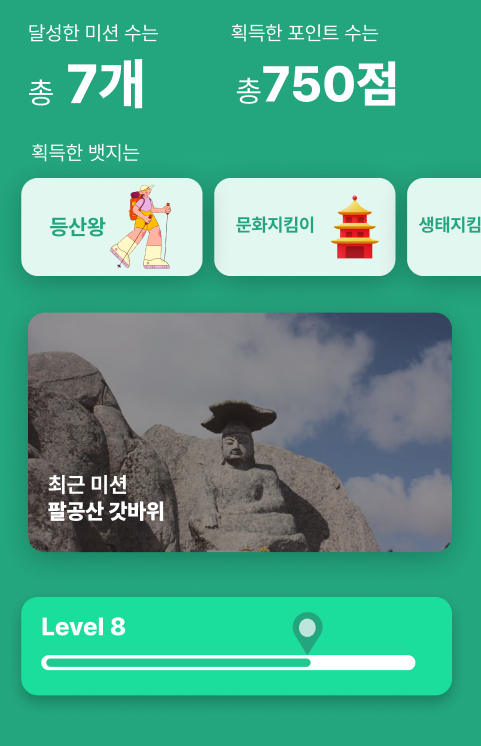
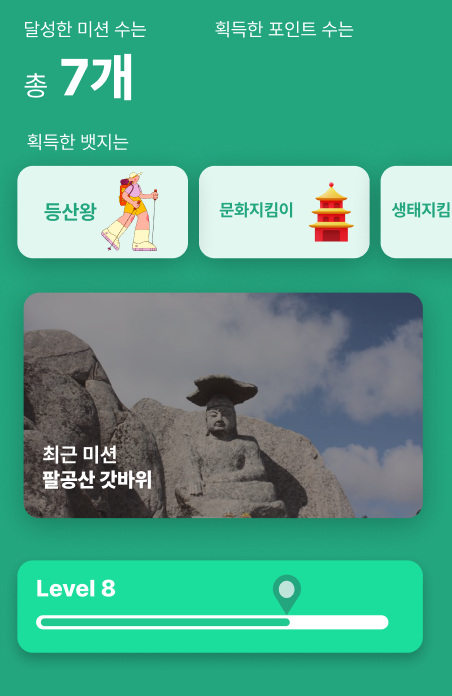
Feat: home screen 포인트

diff --git a/App.js b/App.js
@@ -8,70 +8,76 @@ import Main from "./Main";
 import LoadingScreen from "./screens/LoadingScreen";
 import MissionSuccessScreen from "./screens/MissionSuccessScreen";
 import MissionFailScreen from "./screens/MissionFailScreen";
-import { useState } from "react";
+import { useState, createContext } from "react";
+
+export const MyContext = createContext();
 
 const Stack = createNativeStackNavigator();
 
 export default function App() {
   const [wallet, setWallet] = useState(750);
+  const [imageUri, setImageUri] = useState("");
+
   return (
     <SafeAreaProvider>
       <StatusBar style="auto" />
-      <NavigationContainer>
-        <Stack.Navigator initialRouteName="Main">
-          <Stack.Screen
-            name="Login"
-            component={LoginScreen}
-            options={{
-              header: () => {
-                return null;
-              },
-            }}
-          />
-          <Stack.Screen
-            name="Main"
-            options={{
-              header: () => {
-                return null;
-              },
-            }}
-          >
-            {(props) => (
-              <Main {...props} wallet={wallet} setWallet={setWallet} />
-            )}
-          </Stack.Screen>
-          <Stack.Screen
-            name="Loading"
-            component={LoadingScreen}
-            options={{
-              header: () => {
-                return null;
-              },
-            }}
-          />
-          <Stack.Screen
-            name="MissionSuccess"
-            options={{
-              header: () => {
-                return null;
-              },
-            }}
-          >
-            {(props) => (
-              <MissionSuccessScreen {...props} setWallet={setWallet} />
-            )}
-          </Stack.Screen>
-          <Stack.Screen
-            name="MissionFail"
-            component={MissionFailScreen}
-            options={{
-              header: () => {
-                return null;
-              },
-            }}
-          />
-        </Stack.Navigator>
-      </NavigationContainer>
+      <MyContext.Provider value={{ wallet, setWallet, imageUri, setImageUri }}>
+        <NavigationContainer>
+          <Stack.Navigator initialRouteName="Main">
+            <Stack.Screen
+              name="Login"
+              component={LoginScreen}
+              options={{
+                header: () => {
+                  return null;
+                },
+              }}
+            />
+            <Stack.Screen
+              name="Main"
+              options={{
+                header: () => {
+                  return null;
+                },
+              }}
+            >
+              {(props) => (
+                <Main {...props} wallet={wallet} setWallet={setWallet} />
+              )}
+            </Stack.Screen>
+            <Stack.Screen
+              name="Loading"
+              component={LoadingScreen}
+              options={{
+                header: () => {
+                  return null;
+                },
+              }}
+            />
+            <Stack.Screen
+              name="MissionSuccess"
+              options={{
+                header: () => {
+                  return null;
+                },
+              }}
+            >
+              {(props) => (
+                <MissionSuccessScreen {...props} setWallet={setWallet} />
+              )}
+            </Stack.Screen>
+            <Stack.Screen
+              name="MissionFail"
+              component={MissionFailScreen}
+              options={{
+                header: () => {
+                  return null;
+                },
+              }}
+            />
+          </Stack.Navigator>
+        </NavigationContainer>
+      </MyContext.Provider>
       <Toast />
     </SafeAreaProvider>
   );

diff --git a/components/ImagePicker.jsx b/components/ImagePicker.jsx
@@ -7,10 +7,12 @@ import {
   Pressable,
   TouchableOpacity,
 } from "react-native";
-import { useState } from "react";
+import { useContext, useState } from "react";
+import { MyContext } from "../App";
 
 export default function ImagePicker({ onPress, text }) {
-  const [image, setImage] = useState("");
+  const { imageUri, setImageUri } = useContext(MyContext);
+
   async function selectImageHandler() {
     const result = await launchImageLibraryAsync({
       aspect: [16, 9],
@@ -18,7 +20,7 @@ export default function ImagePicker({ onPress, text }) {
     });
     console.log(result);
     if (!result.canceled) {
-      setImage(result.assets[0].uri);
+      setImageUri(result.assets[0].uri);
     }
   }
 
@@ -29,14 +31,14 @@ export default function ImagePicker({ onPress, text }) {
     });
     console.log(result);
     if (!result.canceled) {
-      setImage(result.assets[0].uri);
+      setImageUri(result.assets[0].uri);
     }
   }
 
   return (
     <>
       <View style={styles.image}>
-        {image ? (
+        {imageUri ? (
           <View
             style={{
               justifyContent: "center",
@@ -45,7 +47,7 @@ export default function ImagePicker({ onPress, text }) {
             }}
           >
             <Image
-              source={{ uri: image }}
+              source={{ uri: imageUri }}
               style={{ width: 200, height: 200 }}
             />
             <TouchableOpacity
@@ -57,8 +59,8 @@ export default function ImagePicker({ onPress, text }) {
                 height: 200,
               }}
               onPress={() => {
-                console.log(image);
-                onPress(text, image);
+                console.log(imageUri);
+                onPress(text, imageUri);
               }}
             >
               <Text style={{ fontSize: 30, color: "white" }}>Send?</Text>

diff --git a/screens/MissionSuccessScreen.jsx b/screens/MissionSuccessScreen.jsx
@@ -1,21 +1,33 @@
 import { Image, StyleSheet, Text, View } from "react-native";
-import { useEffect } from "react";
+import { useContext, useEffect } from "react";
+import { MyContext } from "../App";
+import { Ionicons } from "@expo/vector-icons";
 
 export default function MissionSuccessScreen({ navigation, setWallet }) {
+  const { imageUri } = useContext(MyContext);
+
   useEffect(() => {
     console.log("Mission Success Screen");
     setTimeout(() => {
       navigation.navigate("Home");
-    }, 3000);
+    }, 5000);
     setWallet((prev) => prev + 200);
   }, []);
+
   return (
     <View style={styles.container}>
       <View style={{ marginBottom: 28 }}>
         <Image source={require("../assets/robot2.png")} />
       </View>
       <Text style={styles.title}>미션 성공을 축하드립니다!</Text>
-      <View></View>
+      <View style={{ position: "relative" }}>
+        <Image source={{ uri: imageUri }} style={{ width: 300, height: 300 }} />
+        <Ionicons
+          name="open"
+          size={50}
+          style={{ position: "absolute", top: 0, right: 0 }}
+        />
+      </View>
     </View>
   );
 }

diff --git a/screens/MarketScreen.jsx b/screens/MarketScreen.jsx
@@ -3,26 +3,37 @@ import axios from "axios";
 import { useState } from "react";
 import GifticonItem from "../components/GifticonItem";
 
+const imagelist = [
+  require("../assets/image1.png"),
+  require("../assets/image2.png"),
+  require("../assets/image3.png"),
+  require("../assets/image4.png"),
+];
+
 const shoplist = [
   {
+    image: imagelist[0],
     name: "은희네 우동집",
     menu: "꼬마김밥 한 줄",
     price: 300,
     description: "대구 수성구 지산로 47 올리브김밥천국",
   },
   {
+    image: imagelist[1],
     name: "중앙떡볶이",
     menu: "주먹밥 한 개",
     price: 250,
     description: "대구 중구 동성로2길 81 중앙떡볶이",
   },
   {
+    image: imagelist[2],
     name: "상근이네 오뎅집",
     menu: "어묵꼬지 한 개",
     price: 210,
     description: "대구 수성구 지산로 47 올리브김밥천국",
   },
   {
+    image: imagelist[3],
     name: "구삼커피",
     menu: "쿠키 한 개",
     price: 500,

diff --git a/screens/HomeScreen.jsx b/screens/HomeScreen.jsx
@@ -1,6 +1,6 @@
 import { View, Text, StyleSheet, Image, ScrollView } from "react-native";
 
-export default function HomeScreen() {
+export default function HomeScreen({ wallet }) {
   return (
     <View style={styles.container}>
       <ScrollView alwaysBounceVertical showsVerticalScrollIndicator={false}>
@@ -18,6 +18,11 @@ export default function HomeScreen() {
             source={require("../assets/home_banner.png")}
             style={{ width: "100%", height: 600 }}
           />
+          <View style={{ position: "absolute", top: 36, right: 30 }}>
+            <Text style={{ color: "white", fontSize: 50, fontWeight: "bold" }}>
+              {wallet}P
+            </Text>
+          </View>
         </View>
         <View style={{ width: "100%", height: 100 }}></View>
       </ScrollView>

diff --git a/components/GifticonItem.jsx b/components/GifticonItem.jsx
@@ -12,10 +12,7 @@ export default function GifticonItem({ shop }) {
           justifyContent: "center",
         }}
       >
-        <Image
-          source={require(`../assets/image1.png`)}
-          style={{ width: 100, heigth: 100 }}
-        />
+        <Image source={shop.image} style={{ width: 100, heigth: 100 }} />
       </View>
       <View style={{ padding: 8, justifyContent: "space-around" }}>
         <Text style={styles.subtitle}>{shop.name}</Text>
